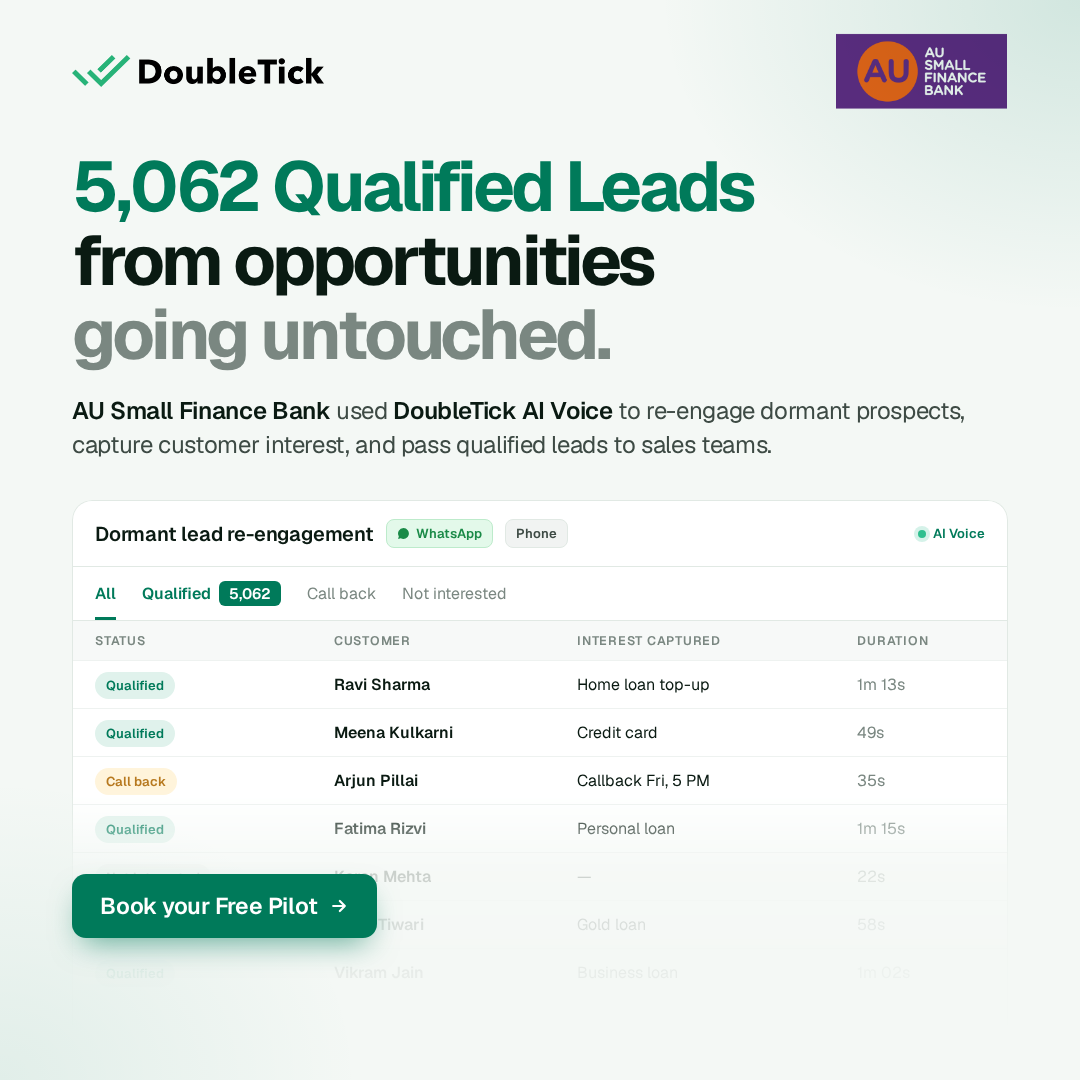
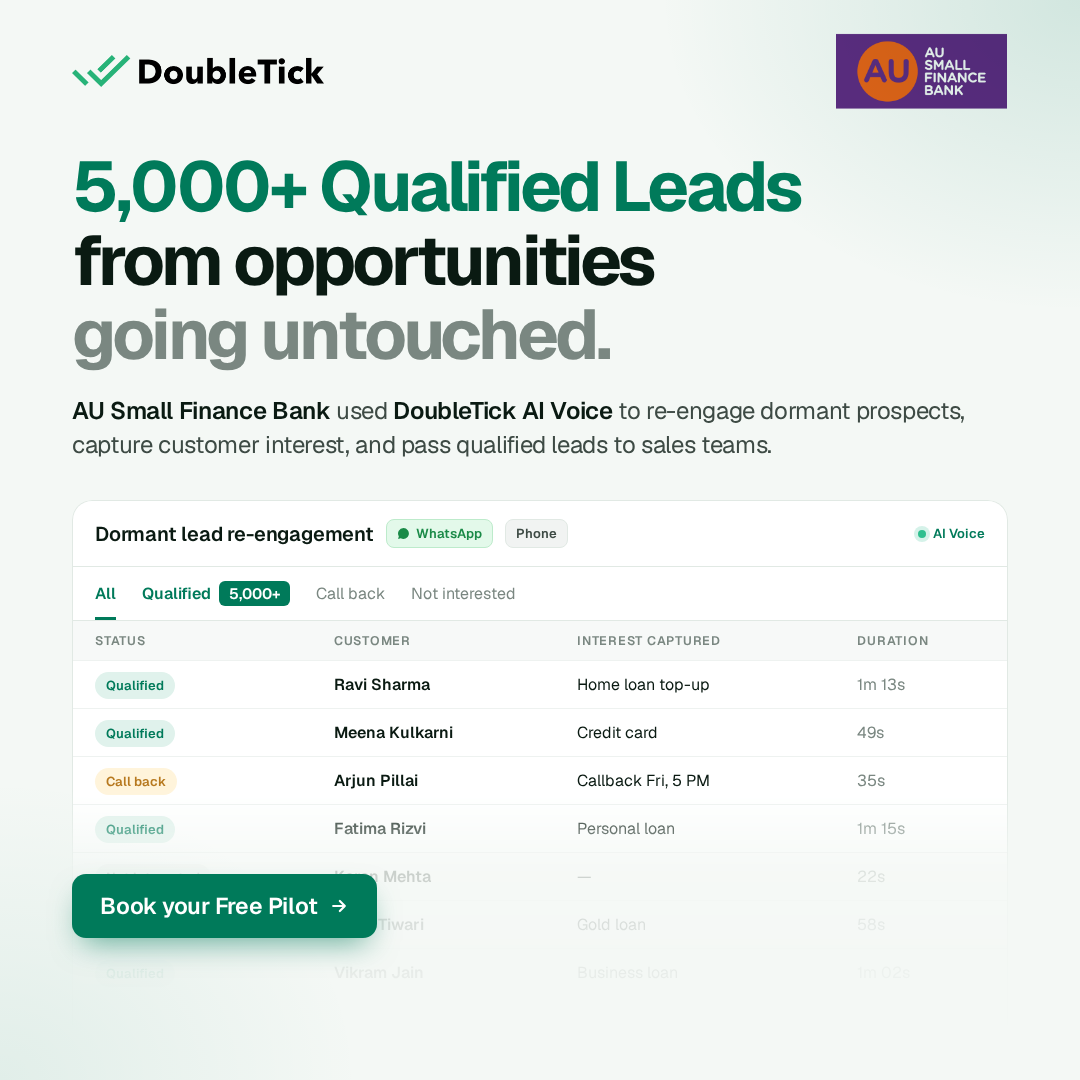
feat: use 5,000+ qualified leads in AU ad hook and dashboard
Claude-Session: https://claude.ai/code/session_013Hi5o4KgvuLbKTeGkStAKX

Changed region(s): [[0.1528, 0.1222, 0.7639, 0.2139], [0.2444, 0.5194, 0.275, 0.5806]]

diff --git a/ads/doubletick-case-au-v7/index.html b/ads/doubletick-case-au-v7/index.html
@@ -1,5 +1,5 @@
 <!doctype html>
-<html lang="en"><head><meta charset="utf-8" /><title>DoubleTick AU 5,062 Qualified Leads</title>
+<html lang="en"><head><meta charset="utf-8" /><title>DoubleTick AU 5,000+ Qualified Leads</title>
 <style>
   @font-face { font-family: "Geist"; src: url("fonts/Geist-Variable.woff2") format("woff2"); font-weight: 100 900; }
   @font-face { font-family: "Geist Mono"; src: url("fonts/GeistMono-Variable.woff2") format("woff2"); font-weight: 100 900; }
@@ -52,12 +52,12 @@
 <body><div class="ad">
   <div class="top"><img class="logo" src="doubletick-logo.webp" alt="DoubleTick" /><img class="client" src="au-bank-logo.png" alt="AU Small Finance Bank" /></div>
 
-  <h1><em>5,062 Qualified Leads</em><br/>from opportunities<br/><span class="m">going untouched.</span></h1>
+  <h1><em>5,000+ Qualified Leads</em><br/>from opportunities<br/><span class="m">going untouched.</span></h1>
   <p class="sub"><b>AU Small Finance Bank</b> used <b>DoubleTick AI Voice</b> to re-engage dormant prospects, capture customer interest, and pass qualified leads to sales teams.</p>
 
   <div class="vis">
     <div class="dh"><span class="tt">Dormant lead re-engagement</span><span class="chip wa"><svg width="13" height="13" viewBox="0 0 24 24" fill="#1A8A47"><path d="M12 2a10 10 0 0 0-8.6 15.1L2 22l5-1.3A10 10 0 1 0 12 2z"/></svg>WhatsApp</span><span class="chip ph">Phone</span><span class="live"><i></i>AI Voice</span></div>
-    <div class="tabs"><span class="on">All</span><span class="hq">Qualified<span class="n">5,062</span></span><span>Call back</span><span>Not interested</span></div>
+    <div class="tabs"><span class="on">All</span><span class="hq">Qualified<span class="n">5,000+</span></span><span>Call back</span><span>Not interested</span></div>
     <table><thead><tr><th>Status</th><th>Customer</th><th>Interest captured</th><th>Duration</th></tr></thead><tbody><tr><td><span class="st q">Qualified</span></td><td class="nm">Ravi Sharma</td><td>Home loan top-up</td><td class="du">1m 13s</td></tr><tr><td><span class="st q">Qualified</span></td><td class="nm">Meena Kulkarni</td><td>Credit card</td><td class="du">49s</td></tr><tr><td><span class="st c">Call back</span></td><td class="nm">Arjun Pillai</td><td>Callback Fri, 5 PM</td><td class="du">35s</td></tr><tr><td><span class="st q">Qualified</span></td><td class="nm">Fatima Rizvi</td><td>Personal loan</td><td class="du">1m 15s</td></tr><tr><td><span class="st n">Not interested</span></td><td class="nm">Karan Mehta</td><td>—</td><td class="du">22s</td></tr><tr><td><span class="st q">Qualified</span></td><td class="nm">Neha Tiwari</td><td>Gold loan</td><td class="du">58s</td></tr><tr><td><span class="st q">Qualified</span></td><td class="nm">Vikram Jain</td><td>Business loan</td><td class="du">1m 02s</td></tr></tbody></table>
   </div>
 
